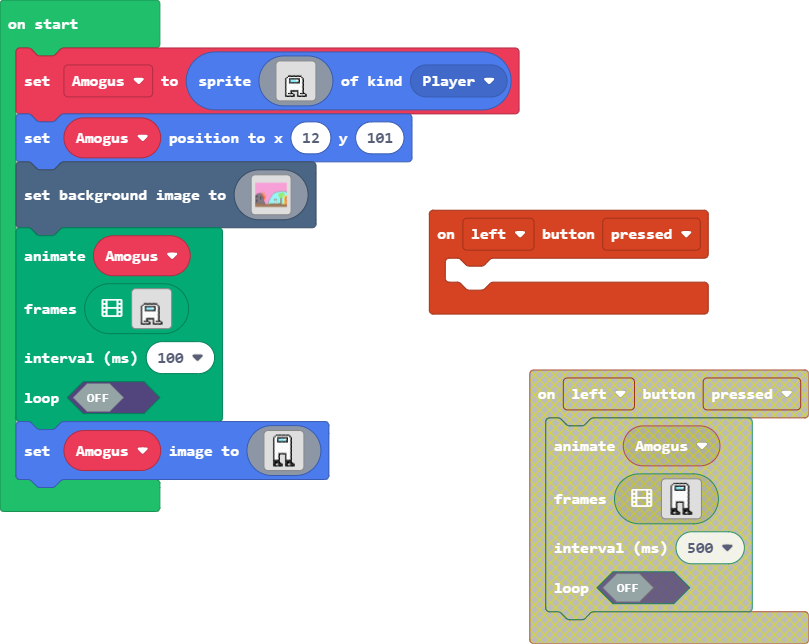
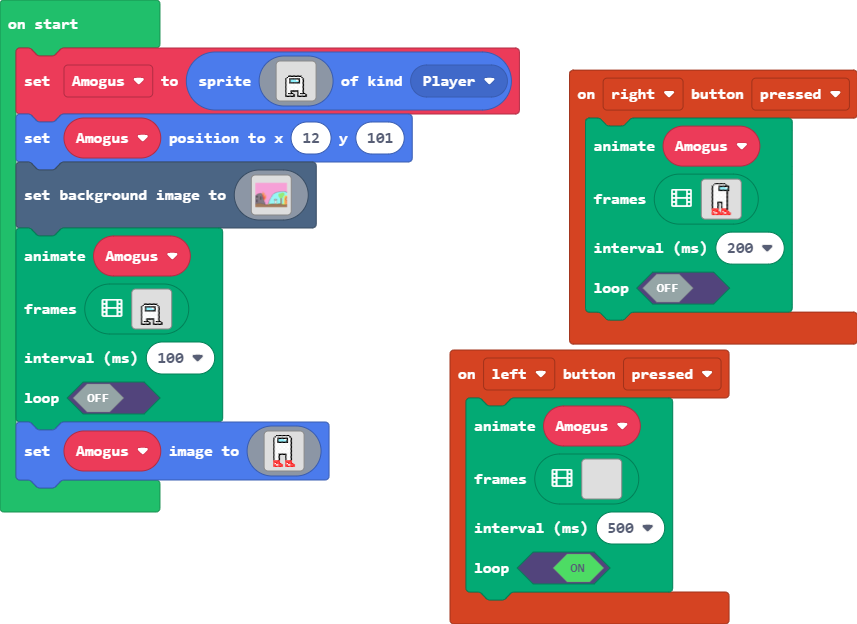
Update main.blocks, main.ts, images.g.jres, images.g.ts

diff --git a/images.g.ts b/images.g.ts
@@ -36,58 +36,6 @@ namespace myImages {
 
     helpers._registerFactory("animation", function(name: string) {
         switch(helpers.stringTrim(name)) {
-            case "amog walk":
-            case "-)ppqI^D_2{,*R2OR)hn":return [img`
-......ffffffffff........
-.....f1111111111f.......
-....f11ffffffff11f......
-....f11f999911f11f......
-....f11f999999f11f......
-....f11ffffffff11f......
-....f111111111111f......
-....f111111111111f......
-....f111111111111f......
-....f111111111111f......
-....f111111111111f......
-....f111111111111f......
-....f111111111111f......
-....f111111111111f......
-....f111ffffff111f......
-....f111f....f111f......
-....f111f....f111f......
-....f111f....f111f......
-....f111f....f111f......
-....fffff....fffff......
-....fffff....fffff......
-....ffffff...ffffff.....
-....ff11fff..ff11fff....
-....fffffff..fffffff....
-`, img`
-......ffffffffff........
-.....f1111111111f.......
-....f11ffffffff11f......
-....f11f999911f11f......
-....f11f999999f11f......
-....f11ffffffff11f......
-....f111111111111f......
-....f111111111111f......
-....f111111111111f......
-....f111111111111f......
-....f111111111111f......
-....f111111111111f......
-....f111111111111f......
-....f111111111111f......
-....f111ffffff1111f.....
-....f111f.....f1111f....
-....f111f......f1111f...
-....f111f...ffff1111f...
-....f111f...ffff1111f...
-....fffff...f1ff111f....
-....fffff...f1ff11f.....
-....ffffff..ffffff......
-....ff11fff.fff.........
-....fffffff.ff..........
-`];
             case "Among Walk":
             case "|-/hrF":return [img`
 ........................
@@ -464,6 +412,233 @@ namespace myImages {
 ....ffffff...ffffff.....
 ....ff11fff..ff11fff....
 ....fffffff..fffffff....
+`];
+            case "amog walk":
+            case "-)ppqI^D_2{,*R2OR)hn":return [img`
+......ffffffffff........
+.....f1111111111f.......
+....f11ffffffff11f......
+....f11f999911f11f......
+....f11f999999f11f......
+....f11ffffffff11f......
+....f111111111111f......
+....f111111111111f......
+....f111111111111f......
+....f111111111111f......
+....f111111111111f......
+....f111111111111f......
+....f111111111111f......
+....f111111111111f......
+....f111ffffff111f......
+....f111f....f111f......
+....f111f....f111f......
+....f111f....f111f......
+....f111f....f111f......
+....fffff....fffff......
+....fffff....fffff......
+....ffffff...ffffff.....
+....ff11fff..ff11fff....
+....fffffff..fffffff....
+`, img`
+......ffffffffff........
+.....f1111111111f.......
+....f11ffffffff11f......
+....f11f999911f11f......
+....f11f999999f11f......
+....f11ffffffff11f......
+....f111111111111f......
+....f111111111111f......
+....f111111111111f......
+....f111111111111f......
+....f111111111111f......
+....f111111111111f......
+....f111111111111f......
+....f111111111111f......
+....f111111111111f......
+....f1111fffff111f......
+.....f1111f..f111f......
+......f1111f.f111f......
+...ffff1111f.f111f......
+...ffff1111f.f111f......
+...f1ff111f..fffff......
+...f1ff11f...fffff......
+...ffffff....ffffff.....
+...fff.......ff11fff....
+`, img`
+......ffffffffff........
+.....f1111111111f.......
+....f11ffffffff11f......
+....f11f999911f11f......
+....f11f999999f11f......
+....f11ffffffff11f......
+....f111111111111f......
+....f111111111111f......
+....f111111111111f......
+....f111111111111f......
+....f111111111111f......
+....f111111111111f......
+....f111111111111f......
+....f111111111111f......
+....f11111111111f.......
+....f1111ffff111f.......
+.....f1111f.f111f.......
+......f1111ff111f.......
+...ffff1111ff111f.......
+...ffff1111ff111f.......
+...f1ff111f.fffff.......
+...f1ff11f..fffff.......
+...ffffff...ffffff......
+...fff......ff11fff.....
+`, img`
+......ffffffffff........
+.....f1111111111f.......
+....f11ffffffff11f......
+....f11f999911f11f......
+....f11f999999f11f......
+....f11ffffffff11f......
+....f111111111111f......
+....f111111111111f......
+....f111111111111f......
+....f111111111111f......
+....f111111111111f......
+....f111111111111f......
+....f111111111111f......
+....f1111111111f........
+....f111111111f.........
+....f1111ff111f.........
+.....f1111f111f.........
+......f111f111f.........
+...ffff111f111f.........
+...ffff111f111f.........
+...f1ff111fffff.........
+...f1ff11ffffff.........
+...ffffff.ffffff........
+...fff....ff11fff.......
+`, img`
+......ffffffffff........
+.....f1111111111f.......
+....f11ffffffff11f......
+....f11f999911f11f......
+....f11f999999f11f......
+....f11ffffffff11f......
+....f111111111111f......
+....f111111111111f......
+....f111111111111f......
+....f111111111111f......
+....f111111111111f......
+....f111111111111f......
+....f111111111111f......
+....f111111111f.........
+....f11111111f..........
+....f1111f111f..........
+.....f111f111f..........
+......f11f111f..........
+...ffff11f111f..........
+...ffff11f111f..........
+...f1ff11fffff..........
+...f1ff11fffff..........
+...ffffffffffff.........
+...fff...ff11fff........
+`, img`
+......ffffffffff........
+.....f1111111111f.......
+....f11ffffffff11f......
+....f11f999911f11f......
+....f11f999999f11f......
+....f11ffffffff11f......
+....f111111111111f......
+....f111111111111f......
+....f111111111111f......
+....f111111111111f......
+....f111111111111f......
+....f111111111111f......
+....f111111111111f......
+....f1111111f...........
+....f111111f............
+....f11f111f............
+.....f1f111f............
+......ff111f............
+...fffff111f............
+...fffff111f............
+...f1fffffff............
+...f1fffffff............
+...ffffffffff...........
+...fff.ff11fff..........
+`, img`
+......ffffffffff........
+.....f1111111111f.......
+....f11ffffffff11f......
+....f11f999911f11f......
+....f11f999999f11f......
+....f11ffffffff11f......
+....f111111111111f......
+....f111111111111f......
+....f111111111111f......
+....f111111111111f......
+....f111111111111f......
+....f111111111111f......
+....f111111111111f......
+....f11111f1............
+....f1111f11............
+....ff111fff............
+.....f111ff.............
+.....f111f1f............
+...fff111f1f............
+...fff111f1f............
+...f1ffffff.............
+...f1fffff..............
+...ffffffff.............
+...ffff11fff............
+`, img`
+......ffffffffff........
+.....f1111111111f.......
+....f11ffffffff11f......
+....f11f999911f11f......
+....f11f999999f11f......
+....f11ffffffff11f......
+....f111111111111f......
+....f111111111111f......
+....f111111111111f......
+....f111111111111f......
+....f111111111111f......
+....f111111111111f......
+....f111111111111f......
+....f111111111111f......
+....f111111111111f......
+....ff111f1111ffff......
+.....f111ff1111f........
+.....f111f.f1111f.......
+.....f11ffff1111f.......
+.....f11ffff1111f.......
+.....ffff1ff111f........
+.....ffff1ff11f.........
+.....fffffffff..........
+.....ff1ffff............
+`, img`
+......ffffffffff........
+.....fd111111111f.......
+....f11ffffffff11f......
+....f11f999911f11f......
+....f11f999999f11f......
+....f11ffffffff11f......
+....f111111111111f......
+....f111111111111f......
+....f111111111111f......
+....f111111111111f......
+....f111111111111f......
+....f111111111111f......
+....f111111111111f......
+....f111111111111f......
+....f111111111111f......
+....ff111f1111ffff......
+.....f111ff1111f........
+.....f111f.f1111f.......
+.....f11ffff1111f.......
+.....f11ffff1111f.......
+.....ffff1ff111f........
+.....ffff1ff11f.........
+.....fffffffff..........
+.....ff1ffff............
 `];
         }
         return null;

diff --git a/main.ts b/main.ts
@@ -1,7 +1,38 @@
 controller.left.onEvent(ControllerButtonEvent.Pressed, function () {
-	
+    animation.runImageAnimation(
+    Amogus,
+    [img`
+        . . . . . . . . . . . . . . . . 
+        . . . . . . . . . . . . . . . . 
+        . . . . . . . . . . . . . . . . 
+        . . . . . . . . . . . . . . . . 
+        . . . . . . . . . . . . . . . . 
+        . . . . . . . . . . . . . . . . 
+        . . . . . . . . . . . . . . . . 
+        . . . . . . . . . . . . . . . . 
+        . . . . . . . . . . . . . . . . 
+        . . . . . . . . . . . . . . . . 
+        . . . . . . . . . . . . . . . . 
+        . . . . . . . . . . . . . . . . 
+        . . . . . . . . . . . . . . . . 
+        . . . . . . . . . . . . . . . . 
+        . . . . . . . . . . . . . . . . 
+        . . . . . . . . . . . . . . . . 
+        `],
+    500,
+    true
+    )
 })
-let Amogus = sprites.create(assets.image`Amogus`, SpriteKind.Player)
+controller.right.onEvent(ControllerButtonEvent.Pressed, function () {
+    animation.runImageAnimation(
+    Amogus,
+    assets.animation`amog forward`,
+    200,
+    false
+    )
+})
+let Amogus: Sprite = null
+Amogus = sprites.create(assets.image`Amogus`, SpriteKind.Player)
 Amogus.setPosition(12, 101)
 scene.setBackgroundImage(img`
     3333333333333333333333333333333333333333333333333333333333333333333333333333333333333333333333333333333333333333333333333333333333333333333333333333333333333333
@@ -151,9 +182,9 @@ Amogus.setImage(img`
     ....f111f....f111f......
     ....f111f....f111f......
     ....f111f....f111f......
-    ....fffff....fffff......
-    ....fffff....fffff......
-    ....ffffff...ffffff.....
-    ....ff11fff..ff11fff....
-    ....fffffff..fffffff....
+    ....22222....22222......
+    ....22222....22222......
+    ....212222...212222.....
+    ....2211222..2211222....
+    ....2222222..2222222....
     `)
